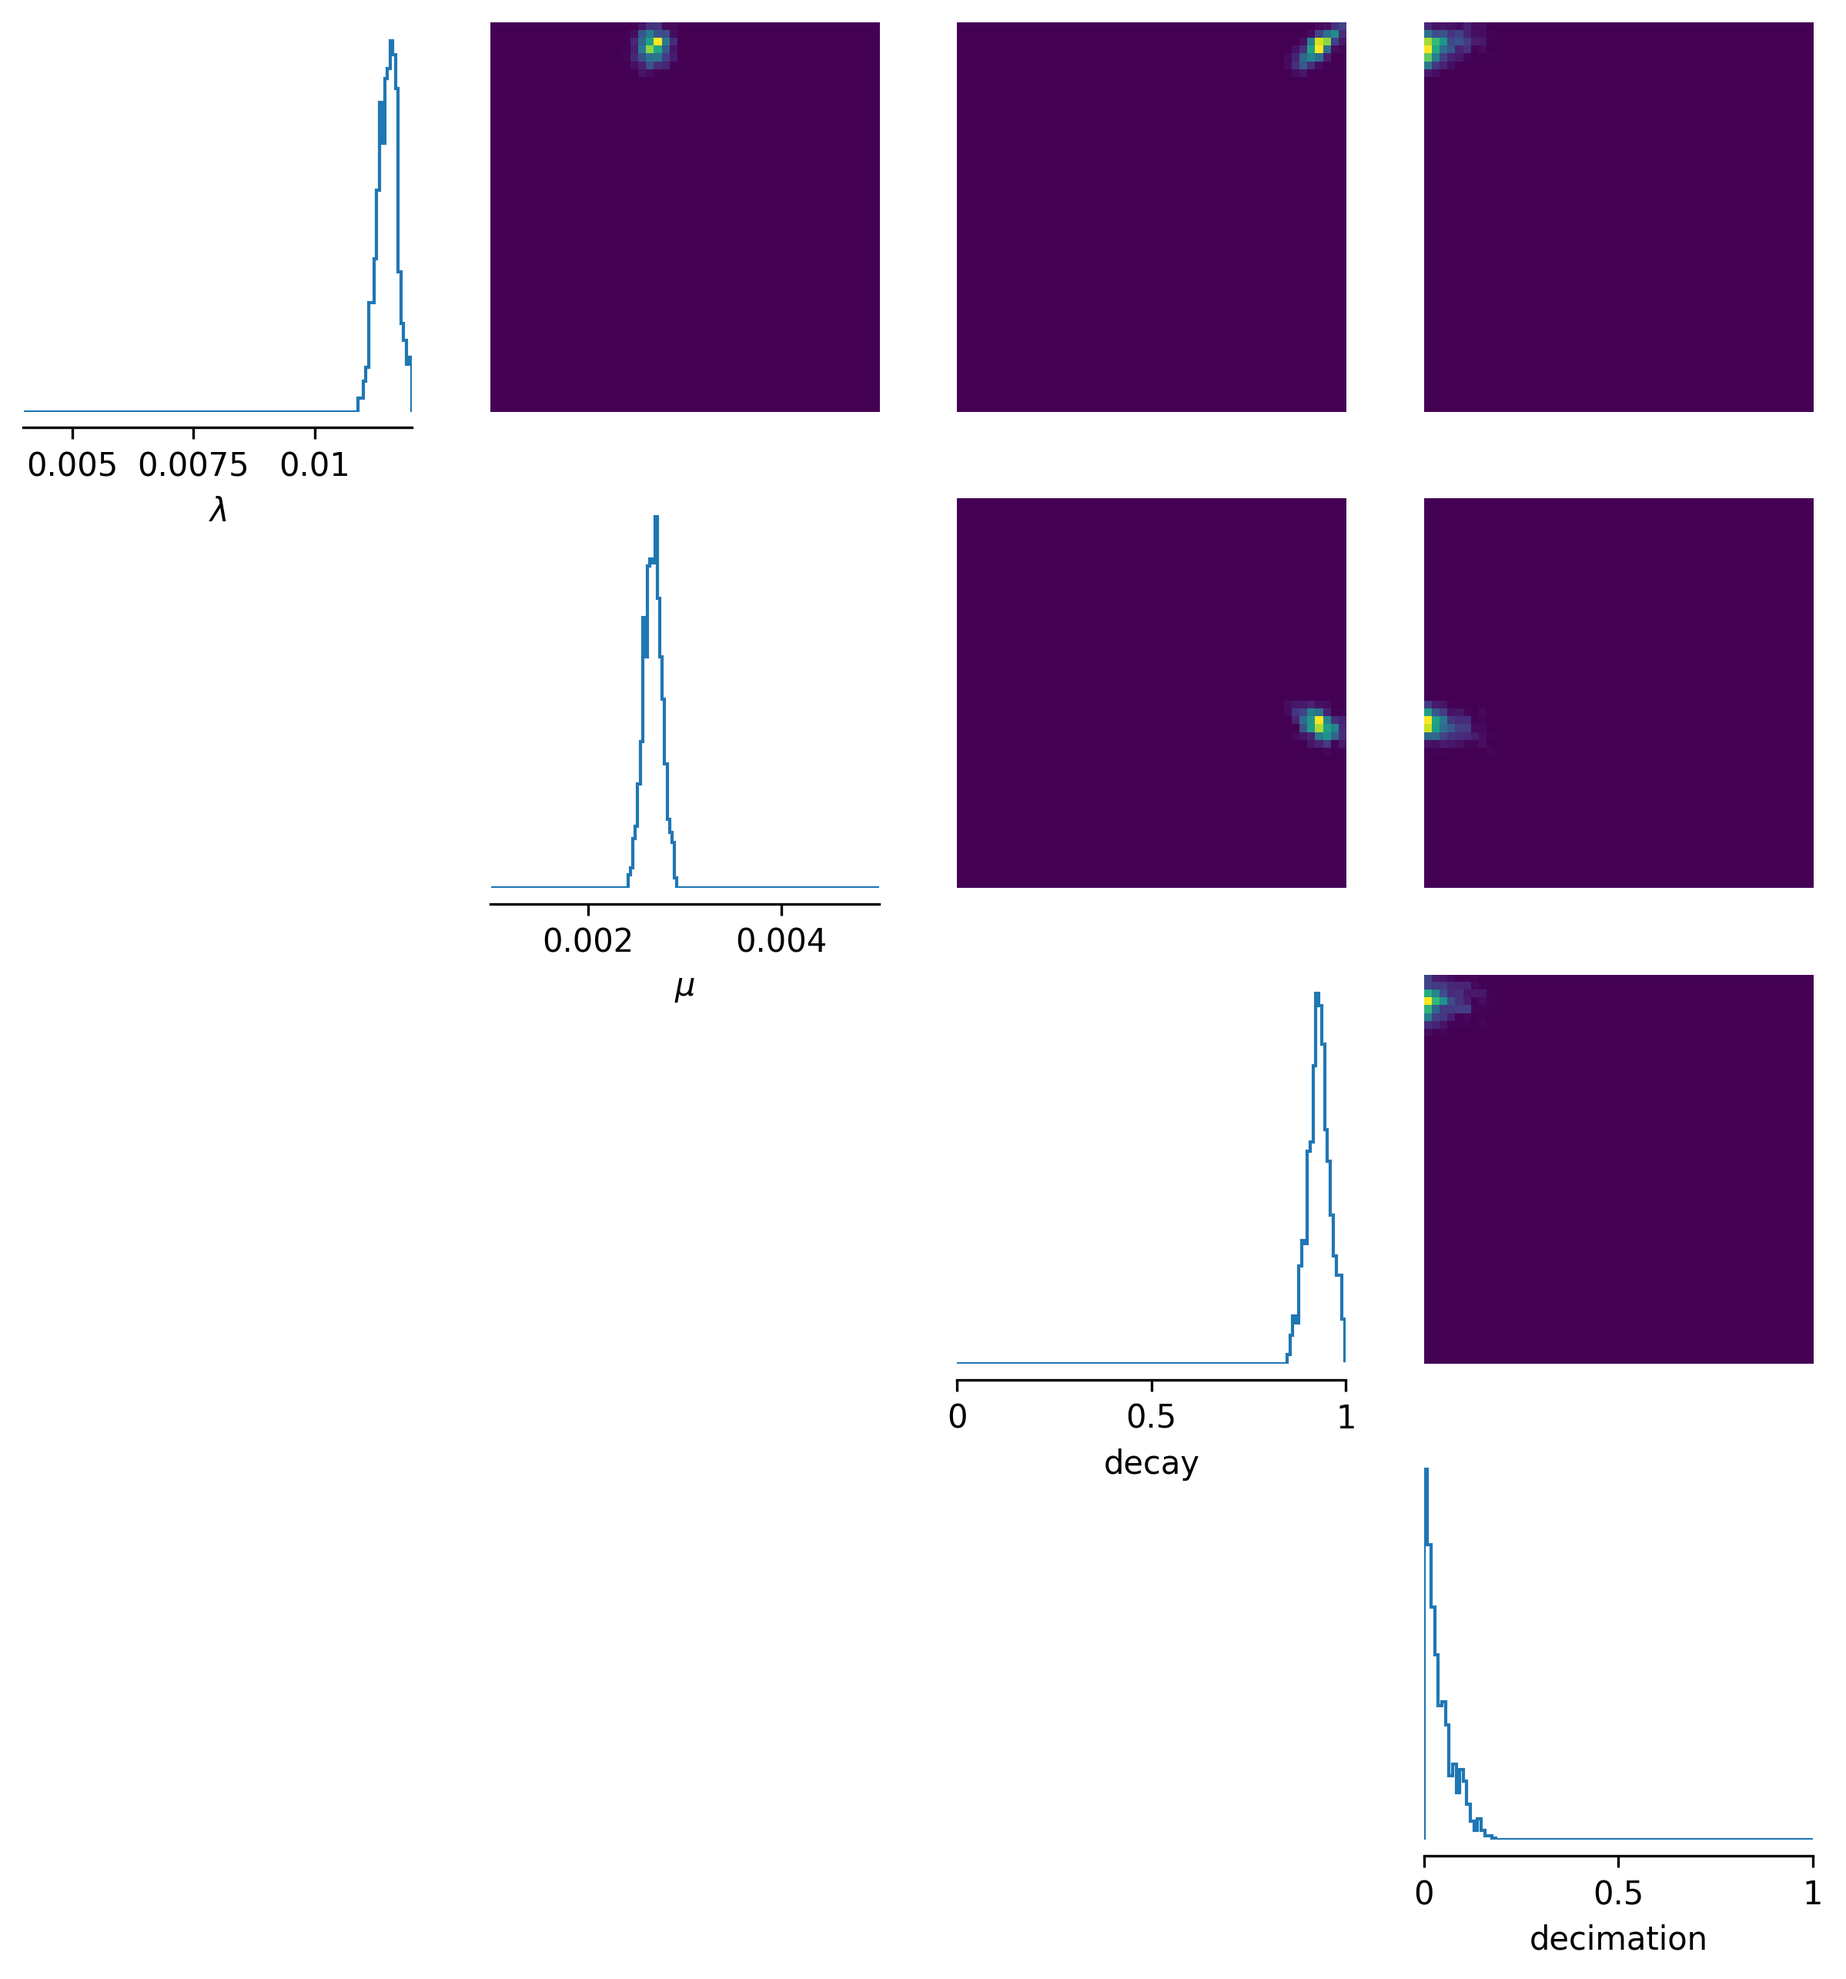
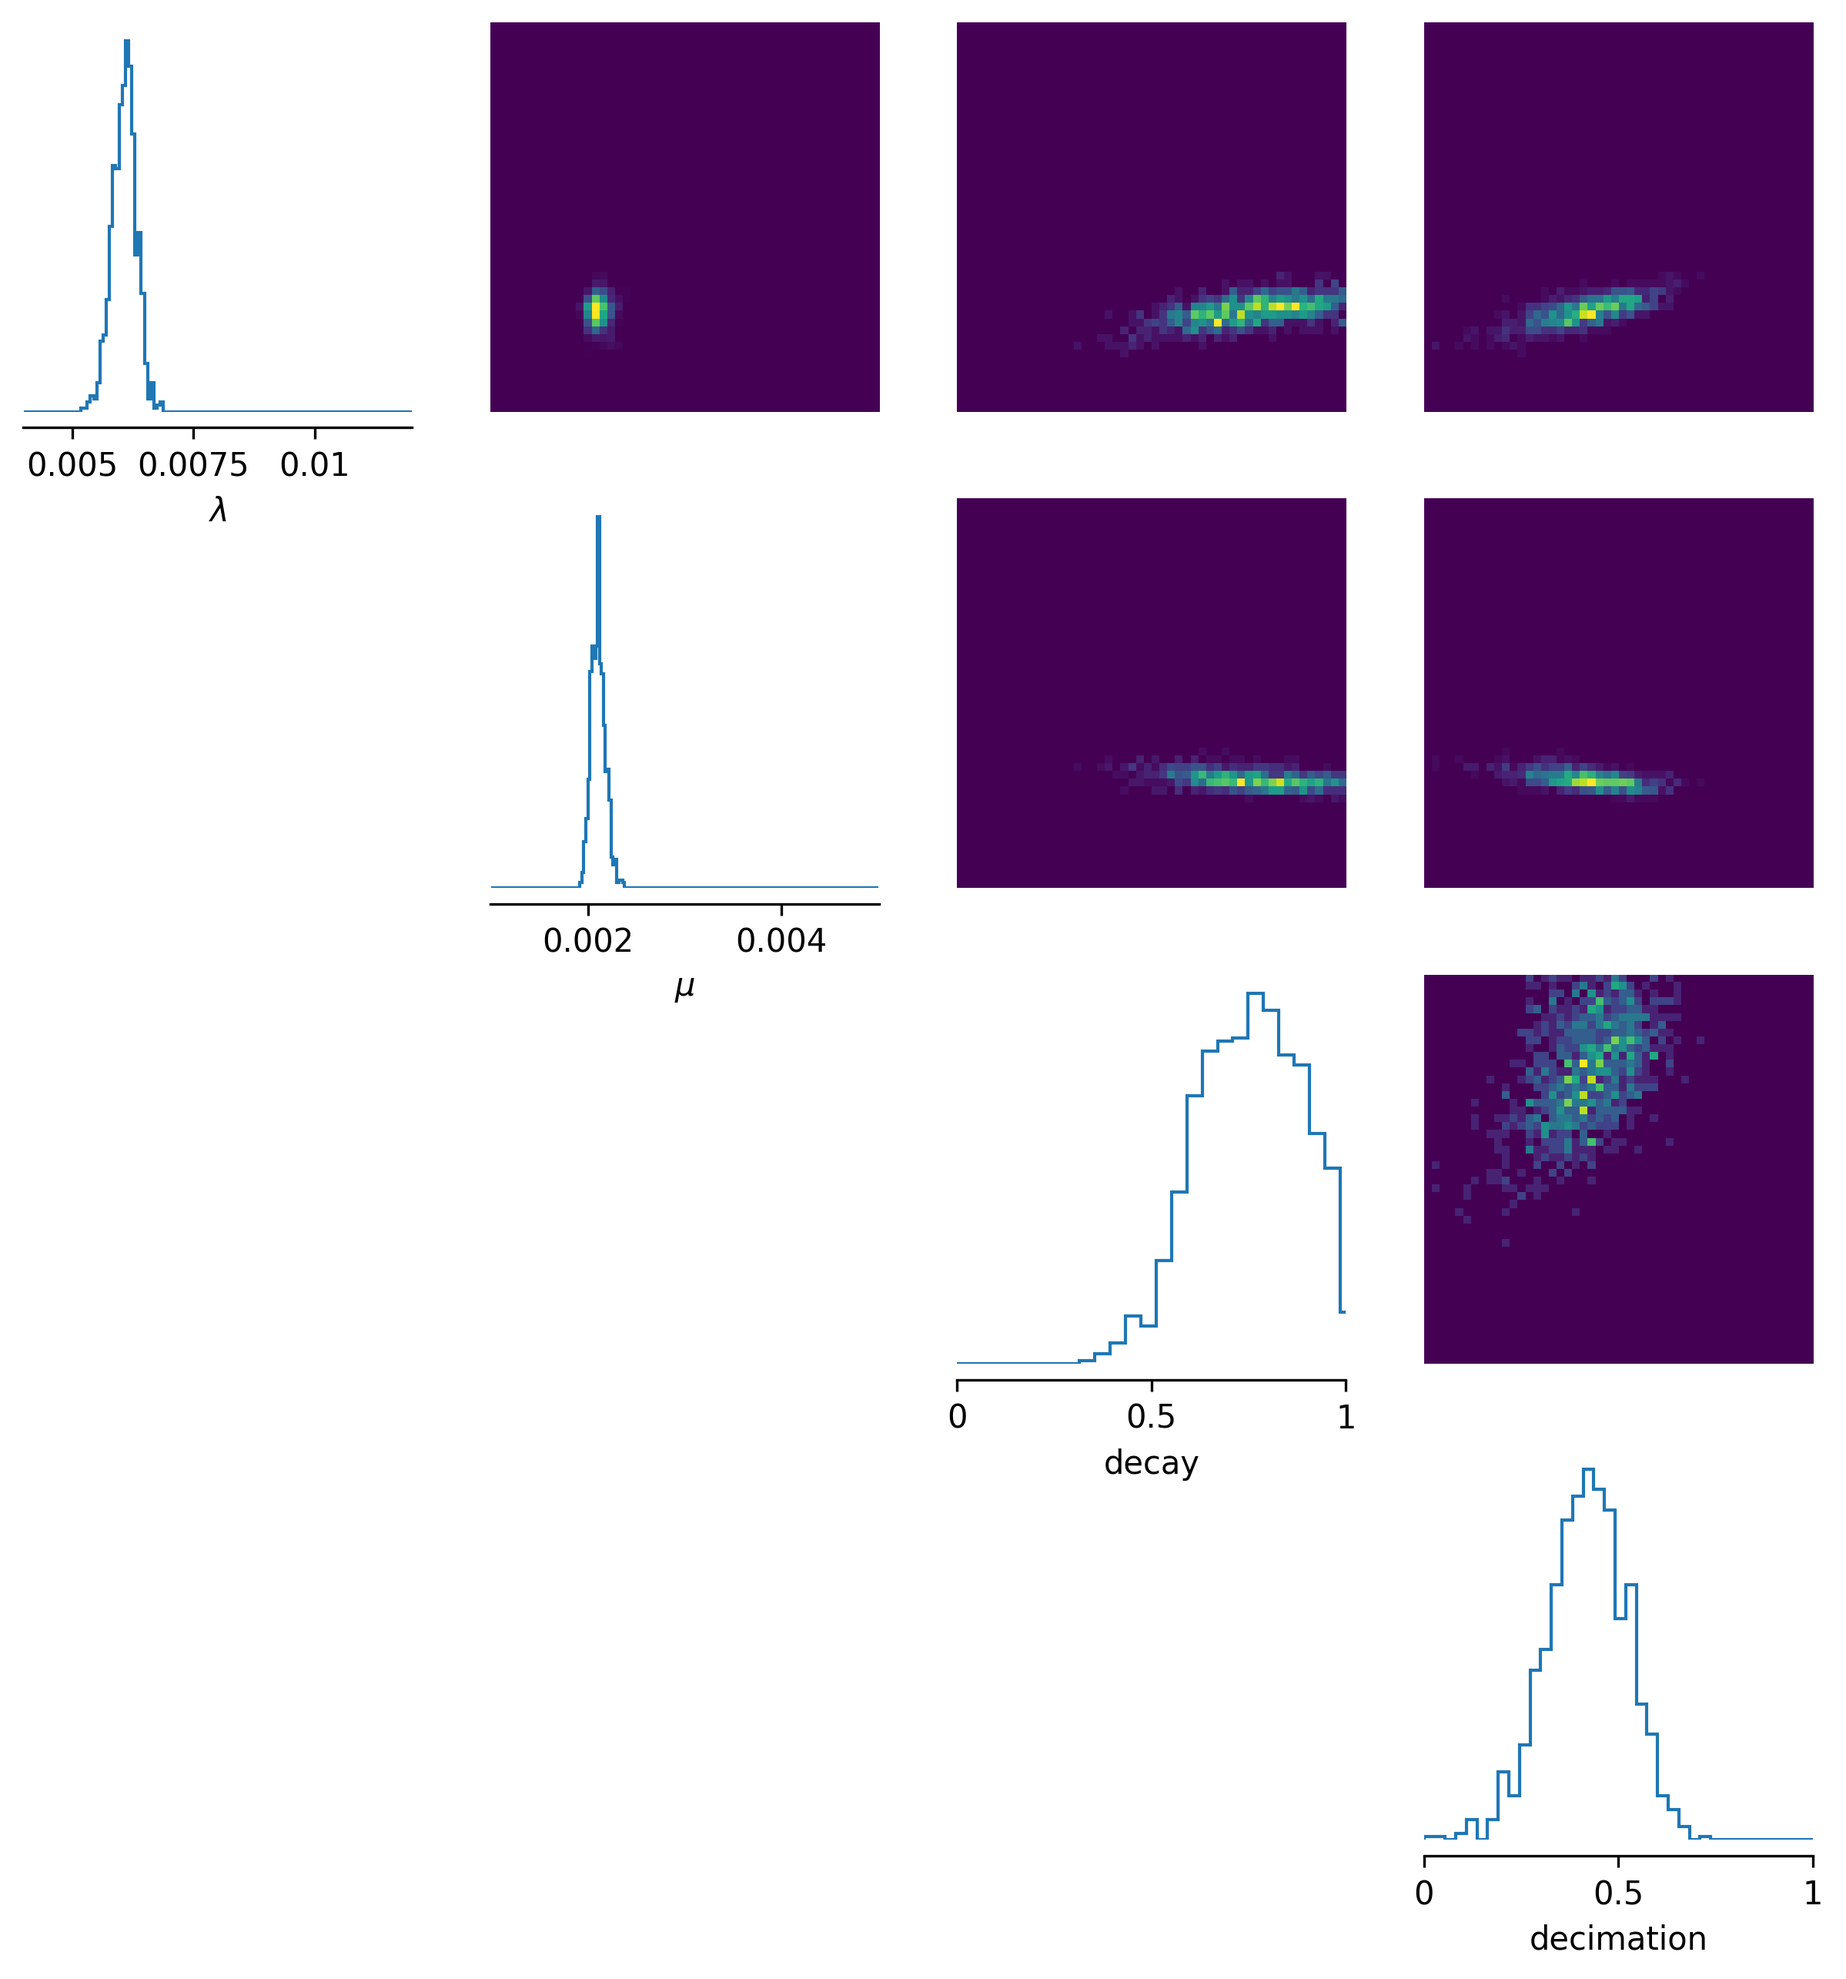
new figs

diff --git a/train_model.py b/train_model.py
@@ -100,7 +100,7 @@ def compute_summary_stats(g):
         ]
 
 lambda_min_prior = 4.*10**(-3)
-lambda_max_prior = 12.*10**(-3)
+lambda_max_prior = 9.*10**(-3) 
 
 mu_min_prior = 1.*10**(-3)
 mu_max_prior = 5*10**(-3)
